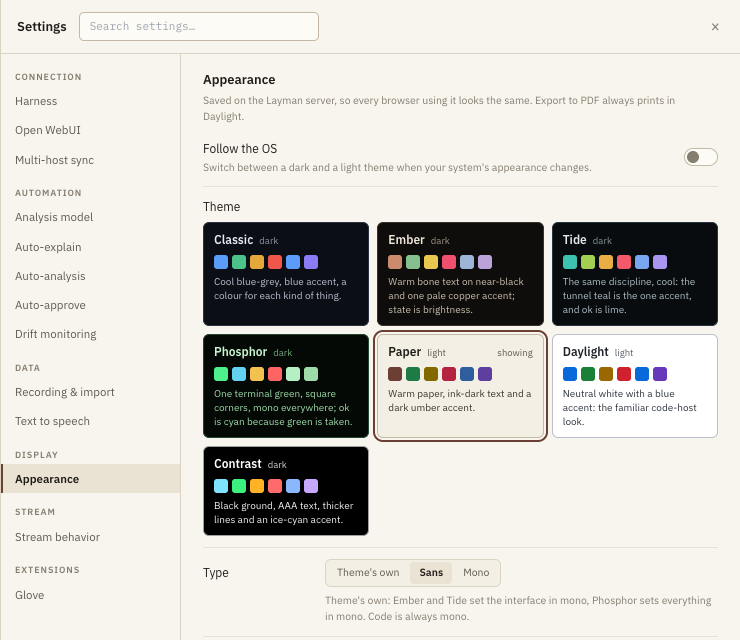
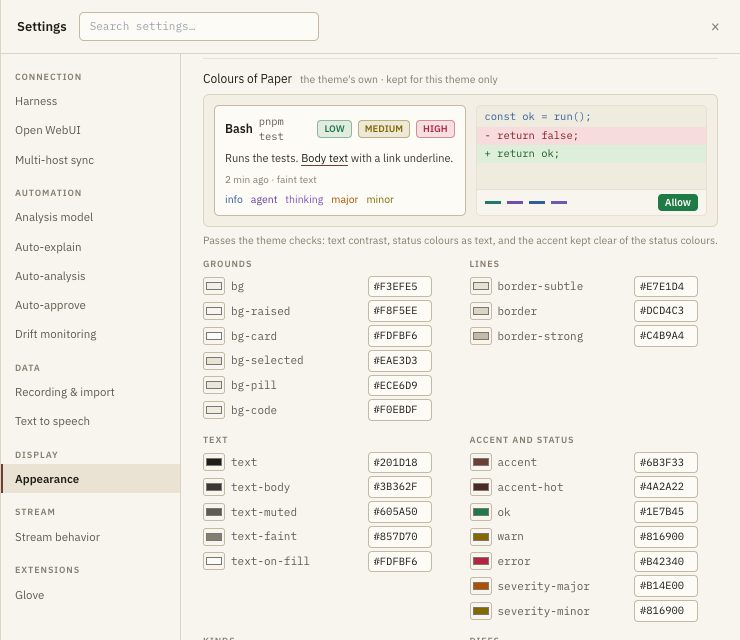
Themes: review fixes for the Appearance docs
The docs say exactly what the tests check (AA on the main grounds,
Classic's thinking exception, distance for the accent), the second
screenshot shows the colours section, and tests now hold Contrast's
text to 7:1 and Settings' check (themeProblemsWith) to dropping a
known exception once the user changes one of its colours.

Changed region(s): [[0.2486, 0.0938, 0.9946, 1.0], [0.2797, 0.9688, 0.3108, 1.0]]

diff --git a/packages/web/src/lib/themes.test.ts b/packages/web/src/lib/themes.test.ts
@@ -2,10 +2,10 @@ import { describe, expect, it } from 'vitest';
 import { readFileSync } from 'fs';
 import { dirname, join } from 'path';
 import { fileURLToPath } from 'url';
-import { HEX_COLOR } from './color.js';
+import { contrast, HEX_COLOR } from './color.js';
 import {
   appearanceCss, DEFAULT_APPEARANCE, followOsUpdate, TOKEN_GROUPS, FONT_MONO, FONT_SANS, KNOWN_PROBLEMS, normalizeAppearance,
-  PRINT_THEME, resolveAppearance, themeById, themeProblems, THEMES, TOKENS,
+  PRINT_THEME, resolveAppearance, themeById, themeProblems, themeProblemsWith, THEMES, TOKENS,
 } from './themes.js';
 
 const DARK = { prefersDark: true, prefersReducedMotion: false };
@@ -125,6 +125,24 @@ describe('TOKEN_GROUPS', () => {
     const listed = TOKEN_GROUPS.flatMap((g) => g.tokens);
     expect([...listed].sort()).toEqual([...TOKENS].sort());
     expect(new Set(listed).size).toBe(listed.length);
+  });
+});
+
+describe('themeProblemsWith (what Settings shows)', () => {
+  it("skips a theme's known break only while neither of its colours is the user's", () => {
+    const classic = themeById('classic');
+    expect(themeProblemsWith(classic, {})).toEqual([]);
+    expect(themeProblemsWith(classic, { thinking: '#2A2440' })).toContainEqual(expect.stringMatching(/^thinking on bg is/));
+    expect(themeProblemsWith(classic, { bg: '#1A1F2B' }).some((p) => p.startsWith('thinking on bg is'))).toBe(true);
+  });
+});
+
+describe('the Contrast theme', () => {
+  it('keeps its promise: text, body and muted text reach AAA (7:1) on every main ground', () => {
+    const t = themeById('contrast').tokens;
+    for (const fg of ['text', 'text-body', 'text-muted'] as const) {
+      for (const bg of ['bg', 'bg-raised', 'bg-card'] as const) expect(contrast(t[fg], t[bg]), `${fg}/${bg}`).toBeGreaterThanOrEqual(7);
+    }
   });
 });
 

diff --git a/CHANGELOG.md b/CHANGELOG.md
@@ -2,7 +2,7 @@
 
 ## Unreleased
 
-- **Docs: themes.** `docs/features.md` → "Themes and appearance", with screenshots, and a line in the README. The theme rule constants in `lib/themes.ts` that nothing else uses are no longer exported.
+- **Docs: themes.** `docs/features.md` → "Themes and appearance", with screenshots, and a line in the README.
 - **Settings → Appearance: your own colours.** Under the theme choices, every colour of the theme showing can be replaced (a colour picker and a hex field per colour, grouped as grounds, lines, text, accent and status, kinds, diffs and network), with a small specimen (a tool row with risk chips, body, muted and faint text, a diff, the network colours, a filled button) above the list; the whole page changes too, a moment after the last change. A colour is kept for that theme only, so under Follow the OS an edit to the dark theme never reaches the light one (`appearance.overrides` is now `{ <theme>: { <token>: '#rrggbb' } }`; the block was not released with the flat shape, and a flat map is dropped). Each colour resets on its own, or all of a theme's at once. Colours that break a theme rule (text below WCAG AA on a ground, a status colour unreadable as text, the accent too close to a status colour) are listed with the failing ratio or distance, and still applied: it is your screen.
 - **Settings → Appearance: choose a theme.** A new Display → Appearance section shows the seven themes as cards drawn in their own colours (name, a strip of the accent and status colours, one line on the idea); a click applies it at once, in every open tab, since the choice is server config. **Follow the OS** switches between a dark and a light theme (Classic and Daylight by default) as the system's appearance changes, live; turning it on or off keeps the theme on screen. **Type** is the theme's own, Sans or Mono. **Motion** is Full, Reduced (nothing moves on its own: spinners, pulses, the network's moving dashes; scrolling jumps instead of easing; transitions stay) or Off (no transitions either); the system's reduced-motion setting turns Full into Reduced, through the same rule. Before, the system setting also removed every transition and every glow (box-shadow); it now means Reduced, so those stay. Topology's eased scrolling, the Logs jumps and the changelog's scroll follow the setting rather than asking the OS, and the speaker button's spinner is a CSS animation so the setting stops it. Each theme now sets `color-scheme`, so native controls and scrollbars are dark under a dark theme (they were light under Classic) and light under a light one. Density, corner radius and line width are still not shown: the spacing is not wired to them yet.
 - **Themes: views that read a colour redraw on a theme change.** The Map (an SVG) and the flowchart (xyflow nodes, edges, minimap and canvas) are drawn with `var(--…)` throughout, so they follow a theme change by themselves; the Minimap, the one canvas, resolves its colours per theme and redraws. A test allows reading a colour value (`readToken`, `getComputedStyle`) only in a component or hook that puts `useThemeVersion()` in a dependency array, so it redraws.

diff --git a/docs/features.md b/docs/features.md
@@ -137,12 +137,12 @@ Settings → Display → **Appearance** chooses how Layman looks. The choice is 
 - **Follow the OS** switches between a dark and a light theme (Classic and Daylight by default) when your system's appearance changes, without a reload.
 - **Type**: the theme's own, Sans or Mono. Code is always mono.
 - **Motion**: Full, Reduced (nothing moves on its own, and scrolling jumps) or Off (no transitions either). If your system asks for reduced motion, Full acts as Reduced.
-- **Your own colours**: any colour of the theme showing can be replaced, with a picker or a hex value, and a small sample shows the result. Colours are kept per theme, so an edit to the dark theme never reaches the light one. Colours that make text hard to read, or put the accent too close to a risk colour, are listed with the measured contrast, but still applied. Each colour resets on its own, or all at once.
+- **Your own colours**: any colour of the theme showing can be replaced, with a picker or a hex value, and a small sample shows the result. Colours are kept per theme, so an edit to the dark theme never reaches the light one. Colours that make text hard to read, or put the accent too close to a status colour, are listed with the measured contrast or colour distance, but still applied. Each colour resets on its own, or all at once.
 
-Every theme is checked by the test suite for WCAG AA text contrast on each background, and for an accent kept clear of the status colours (amber means medium risk). Export to PDF always prints in Daylight, whatever is on screen.
+The test suite checks every theme for WCAG AA contrast of its text and status colours on the main backgrounds (Classic's thinking violet is a known exception, kept from before themes), 7:1 for Contrast's text, and an accent kept clear of the status colours (the warning colour means medium risk). Export to PDF always prints in Daylight, whatever is on screen.
 
 ![Appearance settings, Classic](images/appearance.png)
-![Appearance settings, Paper](images/appearance-paper.png)
+![Your own colours, under Paper](images/appearance-paper.png)
 
 ## Setup wizard
 

diff --git a/CLAUDE.md b/CLAUDE.md
@@ -488,8 +488,9 @@ Four rules that must not be relaxed casually:
 - **Themes are data** (`packages/web/src/lib/themes.ts`, pure; DOM side in `lib/theme-runtime.ts`).
   Each theme defines every colour token components use as `var(--…)`; `applyTheme()` writes the
   resolved one as an `@media screen` stylesheet, never an inline style on `<html>`, which would beat
-  the print palette. `themeProblems()` is the one rule check (tests run it on every theme, Settings
-  runs it on a theme with the user's overrides, `themeProblemsWith`): WCAG AA for text/body/muted and the status colours used as text on
+  the print palette. `themeProblems()` is the one rule check (tests run it on every theme;
+  Settings uses `themeProblemsWith`, which lays the user's overrides on the theme and drops a
+  `KNOWN_PROBLEMS` exception once either of its colours is the user's): WCAG AA for text/body/muted and the status colours used as text on
   bg/raised/card, 3:1 for network colours, and `--accent`/`--accent-hot` ≥ 0.12 OKLab ΔE from that
   theme's `ok`, `warn`, `error` and severities (`--warn` means MEDIUM risk, so an accent near it
   misleads). Exceptions are named in `KNOWN_PROBLEMS` and a test fails when one goes stale. Stored
